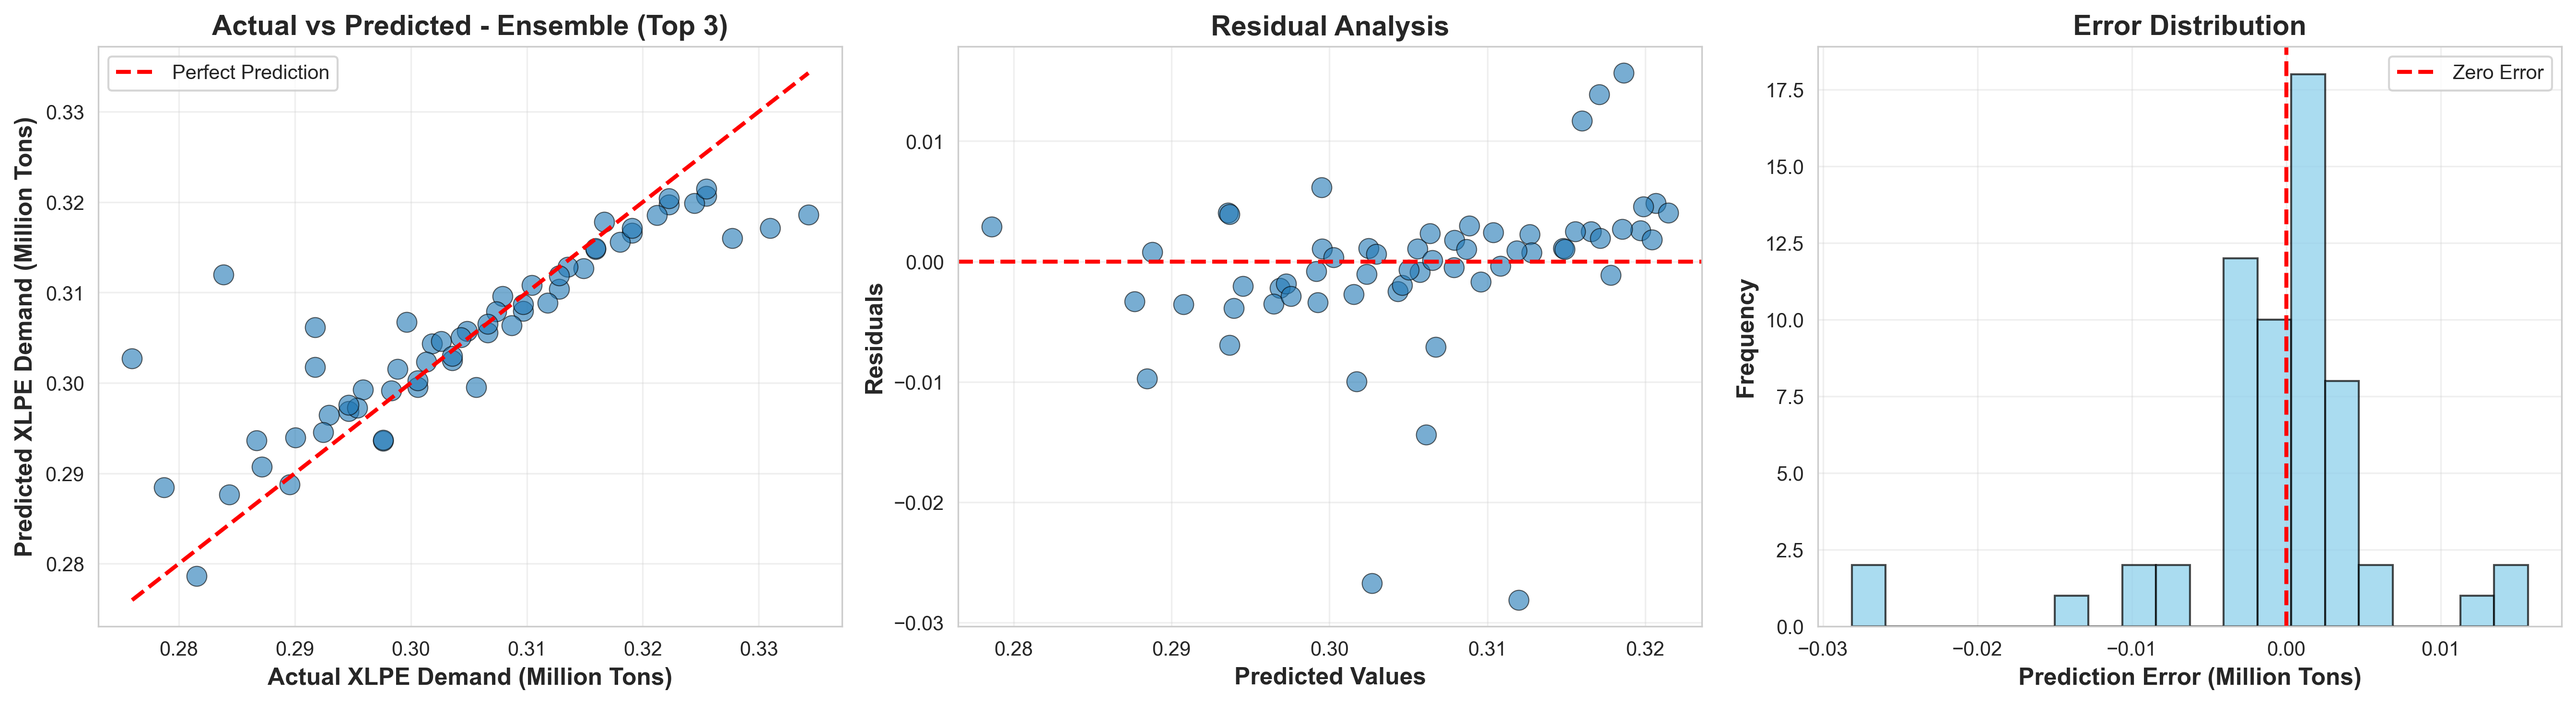
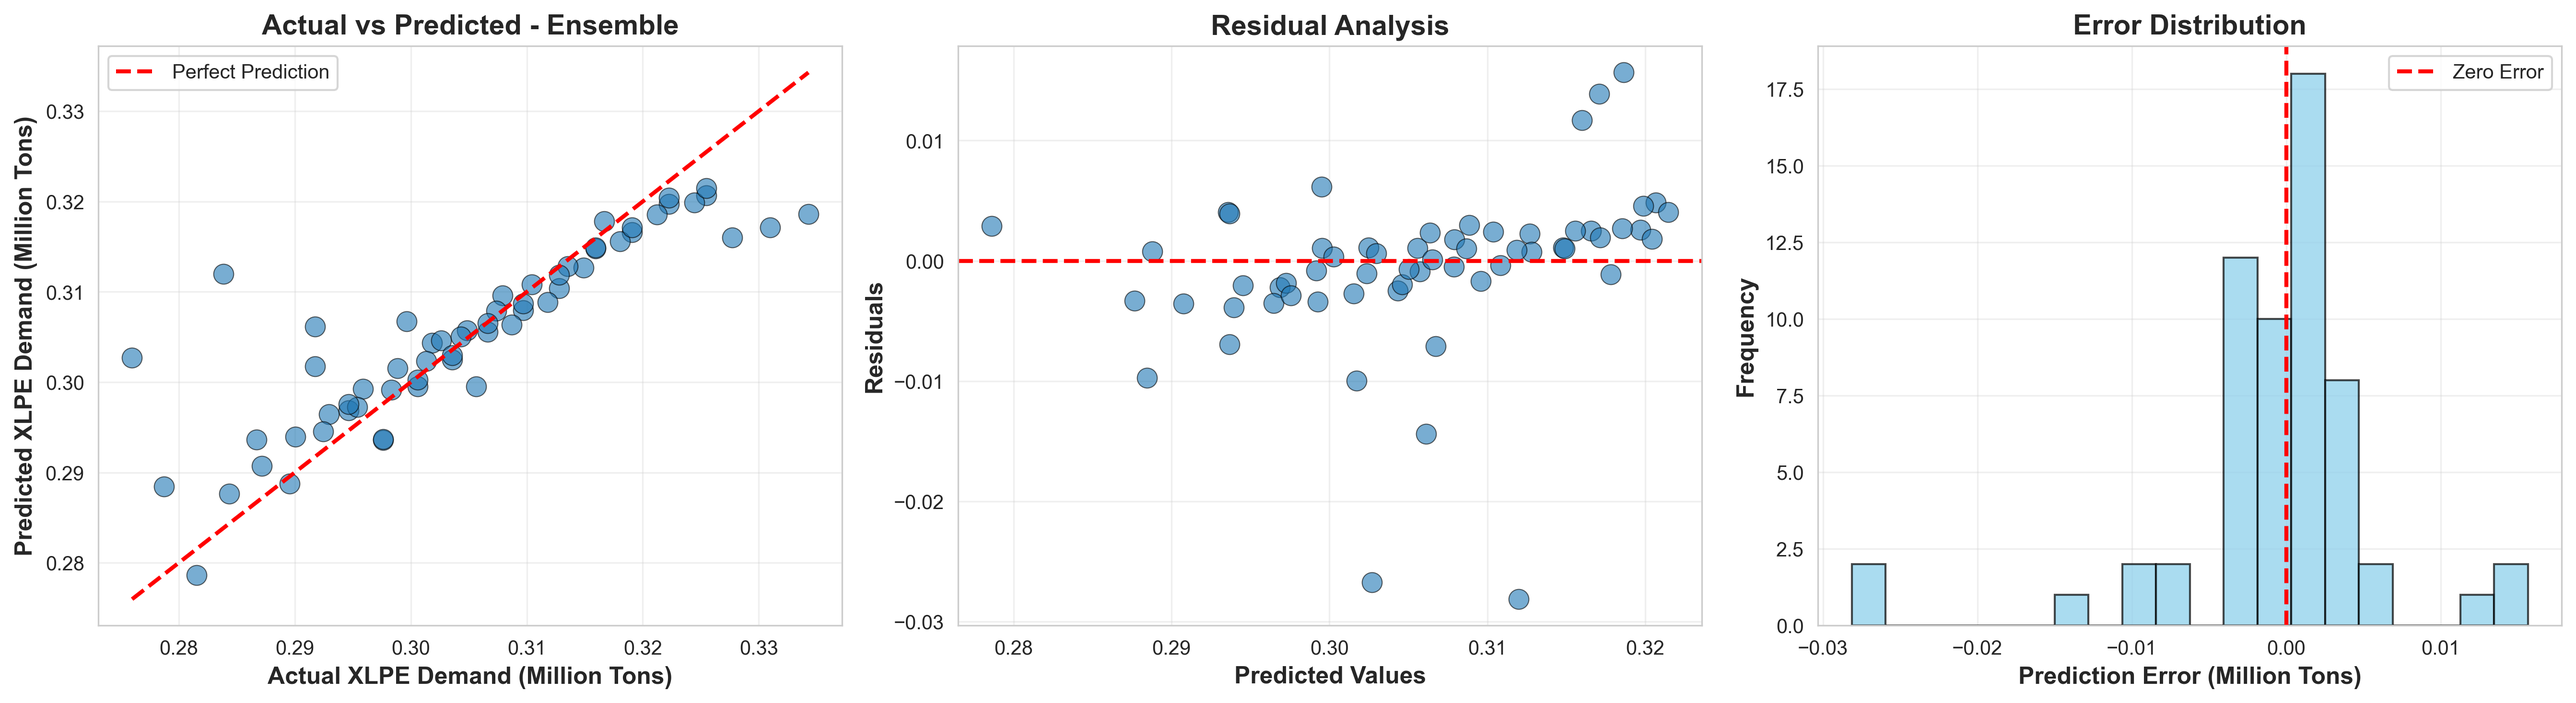
top 3 removed

diff --git a/Dashboard.py b/Dashboard.py
@@ -74,11 +74,11 @@ def load_data():
         model_results = pd.read_csv('outputs/model_comparison_results.csv')
         
         # Inventory optimization
-        with open('outputs/inventory_optimization_results.json', 'r') as f:
+        with open('outputs/inventory_recommendations.json', 'r') as f:
             inventory_results = json.load(f)
         
         # Inventory forecast
-        inventory_forecast = pd.read_csv('outputs/inventory_forecast_12months.csv')
+        inventory_forecast = pd.read_csv('outputs/inventory_summary.csv')
         
         # Metadata
         with open('outputs/model_metadata.json', 'r') as f:
@@ -157,15 +157,15 @@ if page == "Overview":
         else:
             st.metric(
                 label="Service Level",
-                value=f"{data['inventory_results']['service_level_percent']:.1f}%",
+                value=f"{data['inventory_results']['performance_metrics']['service_level_percent']:.1f}%",
                 delta="Target Met"
             )
     
     with col4:
-        annual_cost = data['inventory_results']['annual_costs']['total_cost']
+        annual_cost = data['inventory_results']['cost_analysis']['total_annual_cost']
         st.metric(
             label="Annual Inventory Cost",
-            value=f"${annual_cost/1000000:.2f}M",
+            value=f"${annual_cost/1000:.2f}K",
             delta="Optimized"
         )
     
@@ -1200,10 +1200,10 @@ elif page == "Forecasting Tool":
             
             with col3:
                 # Check inventory recommendation
-                if base_prediction < data['inventory_results']['safety_stock_million_tons']:
+                if base_prediction < data['inventory_results']['inventory_policy']['safety_stock']:
                     recommendation = "✅ Current stock sufficient"
                     st.metric("Inventory Status", "SAFE", delta=recommendation)
-                elif base_prediction < data['inventory_results']['reorder_point_million_tons']:
+                elif base_prediction < data['inventory_results']['inventory_policy']['reorder_point']:
                     recommendation = "⚠ Monitor closely"
                     st.metric("Inventory Status", "WATCH", delta=recommendation)
                 else:
@@ -1360,7 +1360,7 @@ elif page == "About":
        - Inventory optimization report ($18-73M savings)
        - Infrastructure scenario report (2026 forecast: $1.9B opportunity)
        - Risk analysis report (uncertainty quantification)
-       - Feature importance report (GDP, price, electricity top 3)
+       - Feature importance report (GDP, price, electricity)
     
     4. **Interactive Dashboard**
        - Real-time forecasting tool

diff --git a/Models_Advanced.py b/Models_Advanced.py
@@ -650,7 +650,7 @@ else:
 
 # Add ensemble to results
 results.append({
-    'Model': 'Ensemble (Top 3)',
+    'Model': 'Ensemble',
     'Forecast Accuracy (%)': round(forecast_accuracy_ensemble, 2),
     'MAE (million tons)': round(mae_ensemble, 6),
     'RMSE (million tons)': round(np.sqrt(mean_squared_error(y_test, y_pred_ensemble)), 6),
@@ -663,7 +663,7 @@ results.append({
 # Update best model if ensemble is better
 if forecast_accuracy_ensemble > best_accuracy:
     best_pipeline = ensemble_pipeline
-    best_model_name = 'Ensemble (Top 3)'
+    best_model_name = 'Ensemble'
     best_accuracy = forecast_accuracy_ensemble
 
 # Save results summary
@@ -698,8 +698,8 @@ metadata = {
     'train_size': len(X_train),
     'test_size': len(X_test),
     'total_models_evaluated': len(models) + 1,  # +1 for ensemble
-    'ensemble_members': selected_models if best_model_name == 'Ensemble (Top 3)' else [],
-    'ensemble_weights': {name: weight for name, weight in zip(selected_models, model_weights)} if best_model_name == 'Ensemble (Top 3)' else {},
+    'ensemble_members': selected_models if best_model_name == 'Ensemble' else [],
+    'ensemble_weights': {name: weight for name, weight in zip(selected_models, model_weights)} if best_model_name == 'Ensemble' else {},
     'preprocessing': 'StandardScaler (inside pipeline)',
     'innovation': 'Scikit-learn Pipelines + Optimized Selective Ensemble with Exponential Weights'
 }
@@ -982,7 +982,7 @@ plt.savefig('outputs/best_model_analysis.png', dpi=300, bbox_inches='tight')
 plt.close()
 
 # 3. Feature Importance (if applicable)
-if best_model_name == 'Ensemble (Top 3)':
+if best_model_name == 'Ensemble':
     # For ensemble of pipelines, we can't easily extract feature importance
     print("✓ Ensemble pipeline - combined predictions from top 3 models")
 elif hasattr(best_pipeline.named_steps['model'], 'feature_importances_'):
@@ -1004,7 +1004,7 @@ elif hasattr(best_pipeline.named_steps['model'], 'feature_importances_'):
     print("✓ Feature importance analysis saved")
 
 # 4. Learning Curves (for best single model, not ensemble)
-if best_model_name != 'Ensemble (Top 3)':
+if best_model_name != 'Ensemble':
     from sklearn.model_selection import learning_curve
     
     print("Generating learning curves (this may take a moment)...")
